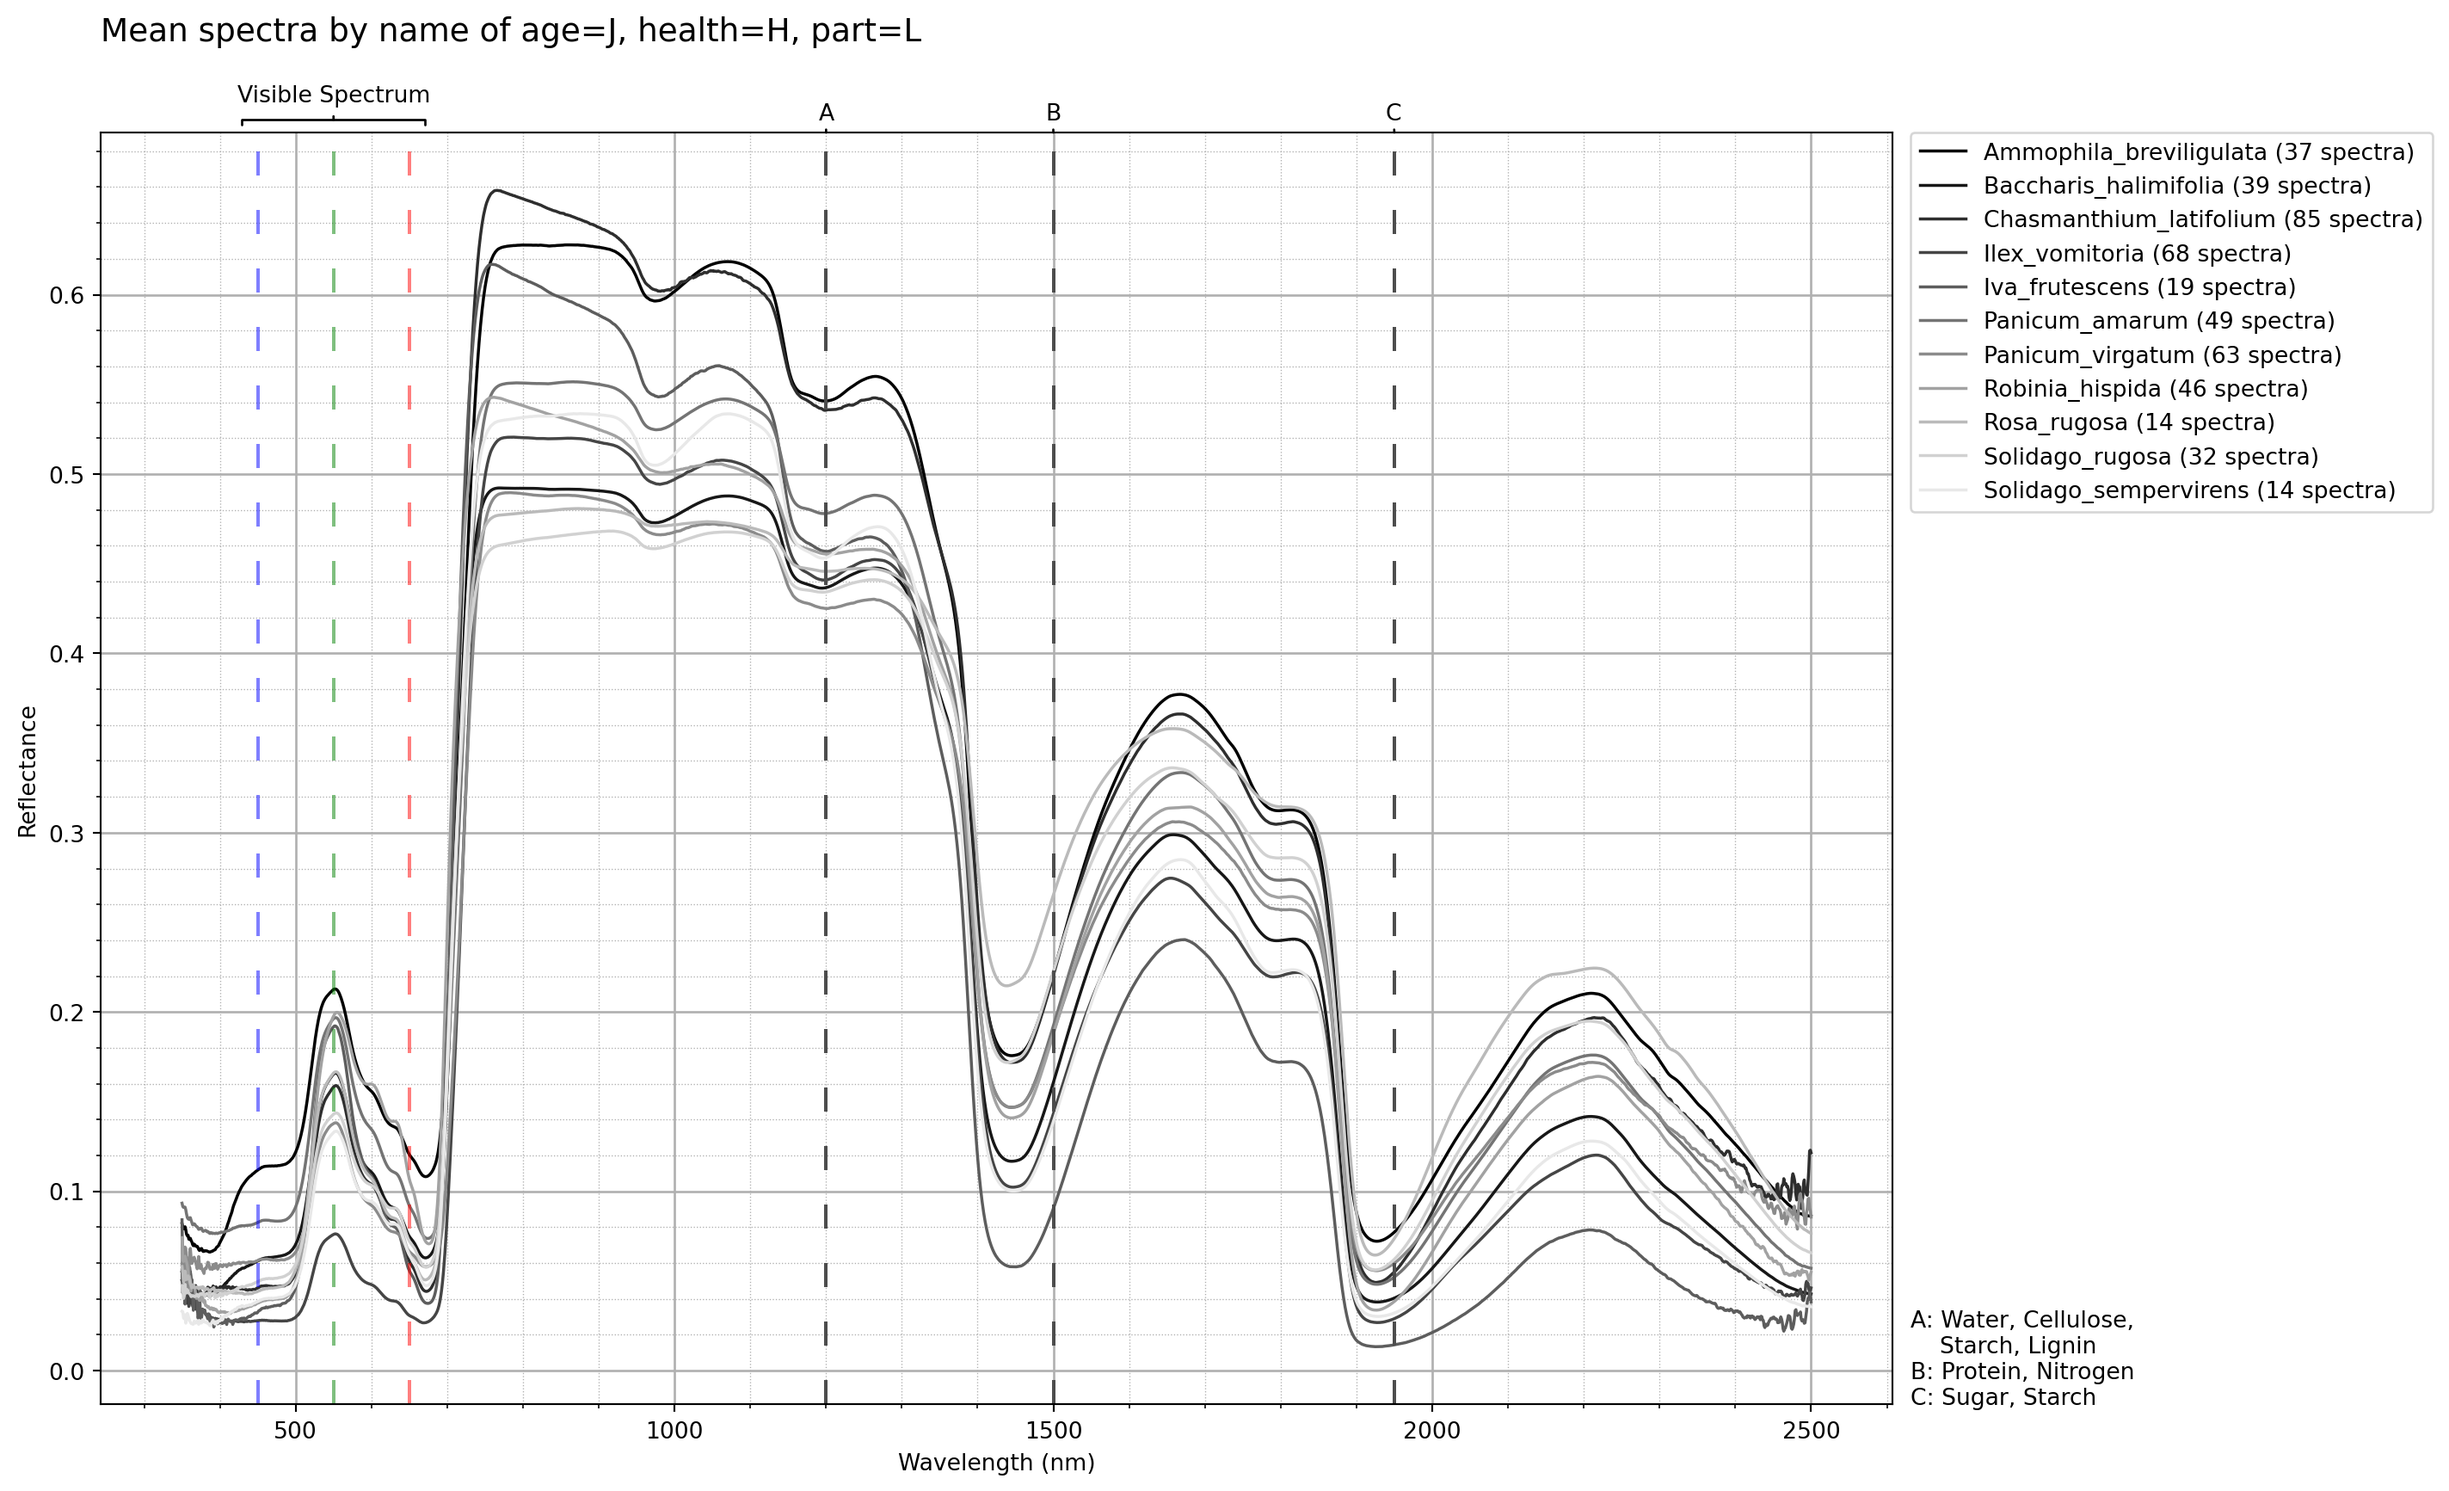
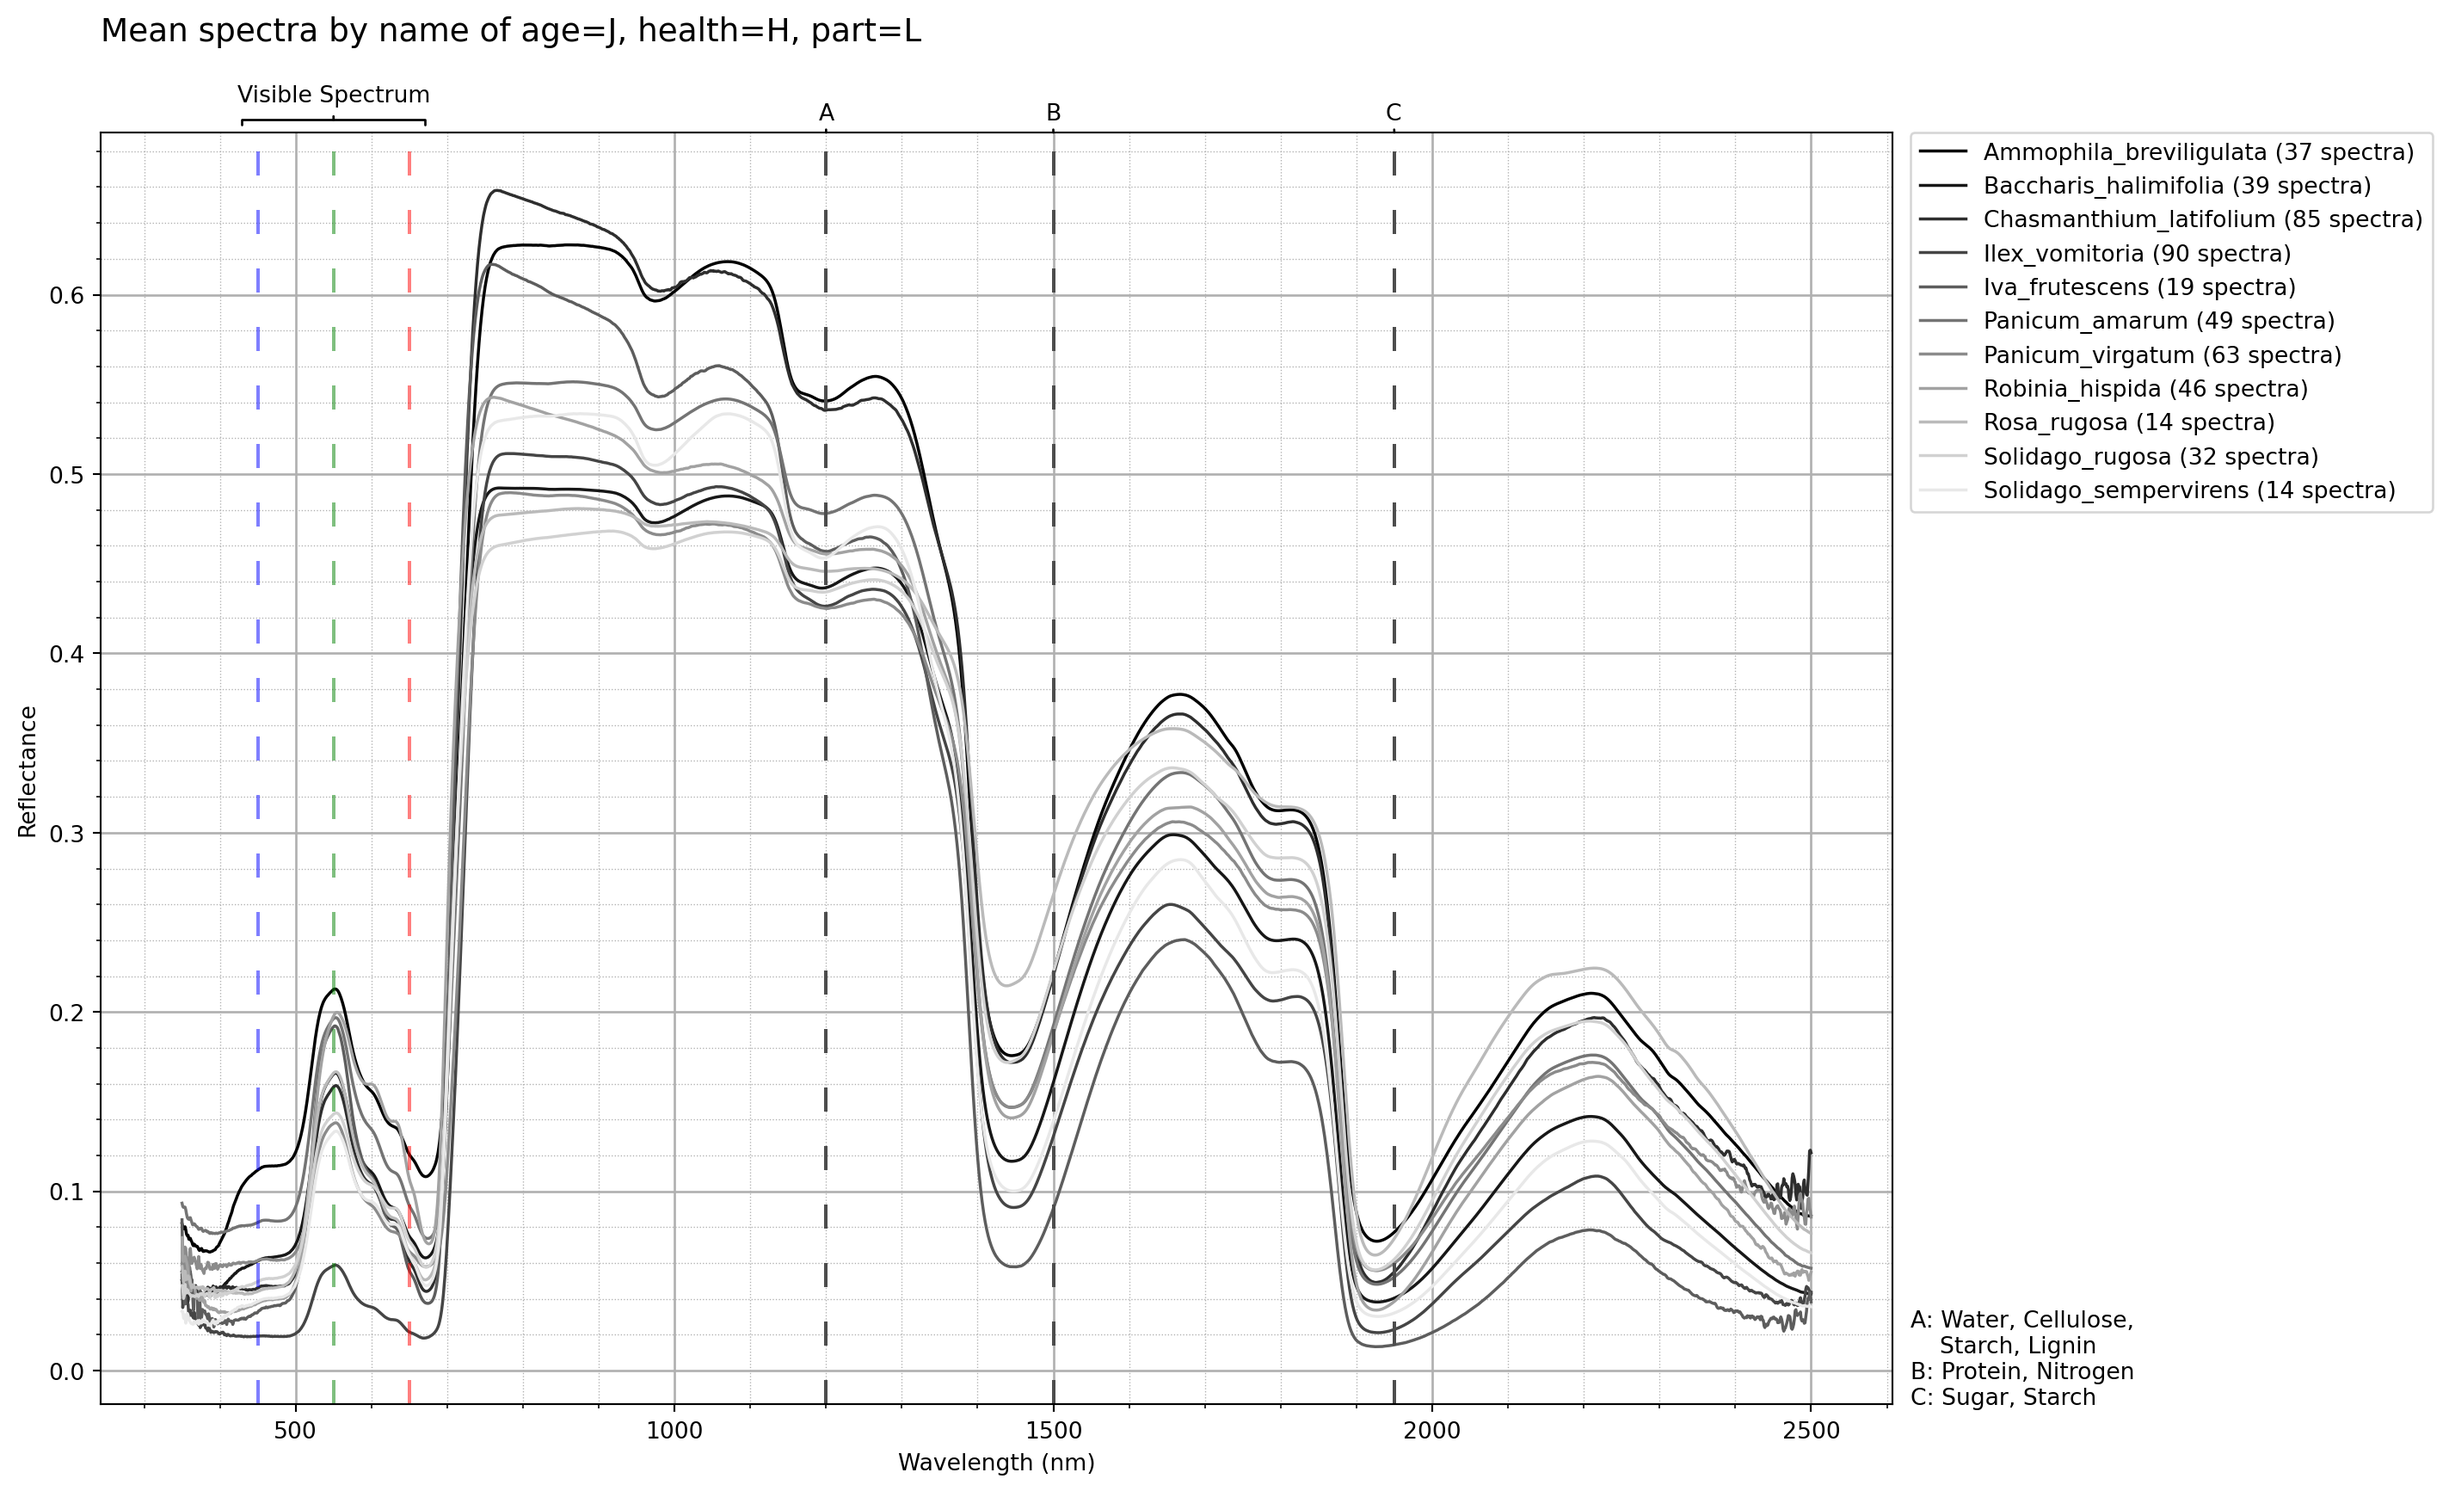
Built site for gh-pages

diff --git a/reports/Report1.html b/reports/Report1.html
@@ -152,7 +152,7 @@ ul.task-list li input[type="checkbox"] {
 
 <section id="spectral-library" class="level2 page-columns page-full">
 <h2 class="anchored" data-anchor-id="spectral-library">Spectral Library</h2>
-<p>Number of Spectra: 4408</p>
+<p>Number of Spectra: 4626</p>
 <div id="cell-table1" class="cell page-columns page-full" data-execution_count="9">
 <div id="table1" class="cell-output cell-output-display column-page-inset-right" data-execution_count="9">
 <div>
@@ -251,21 +251,21 @@ ul.task-list li input[type="checkbox"] {
 </tr>
 <tr class="odd">
 <td data-quarto-table-cell-role="th">Chamaecrista_fasciculata</td>
-<td>147</td>
+<td>193</td>
 <td>64</td>
-<td>45</td>
-<td>0</td>
+<td>56</td>
+<td>13</td>
 <td>9</td>
 <td>0</td>
-<td>24</td>
+<td>46</td>
 <td>0</td>
 <td>0</td>
 <td>50</td>
-<td>44</td>
+<td>90</td>
 <td>19</td>
 <td>22</td>
 <td>24</td>
-<td>101</td>
+<td>147</td>
 <td>0</td>
 <td>0</td>
 <td>0</td>
@@ -274,7 +274,7 @@ ul.task-list li input[type="checkbox"] {
 <td>0</td>
 <td>0</td>
 <td>4</td>
-<td>54</td>
+<td>100</td>
 <td>7</td>
 <td>0</td>
 </tr>
@@ -309,21 +309,21 @@ ul.task-list li input[type="checkbox"] {
 </tr>
 <tr class="odd">
 <td data-quarto-table-cell-role="th">Ilex_vomitoria</td>
-<td>363</td>
+<td>451</td>
 <td>96</td>
-<td>102</td>
-<td>39</td>
+<td>124</td>
+<td>60</td>
 <td>26</td>
-<td>85</td>
-<td>15</td>
+<td>124</td>
+<td>21</td>
 <td>0</td>
 <td>0</td>
 <td>6</td>
 <td>0</td>
-<td>305</td>
+<td>393</td>
 <td>7</td>
 <td>7</td>
-<td>314</td>
+<td>402</td>
 <td>0</td>
 <td>0</td>
 <td>0</td>
@@ -332,7 +332,7 @@ ul.task-list li input[type="checkbox"] {
 <td>0</td>
 <td>0</td>
 <td>3</td>
-<td>66</td>
+<td>110</td>
 <td>0</td>
 <td>0</td>
 </tr>
@@ -367,21 +367,21 @@ ul.task-list li input[type="checkbox"] {
 </tr>
 <tr class="odd">
 <td data-quarto-table-cell-role="th">Morella_pennsylvanica</td>
-<td>280</td>
+<td>328</td>
 <td>21</td>
-<td>213</td>
+<td>233</td>
 <td>0</td>
-<td>0</td>
-<td>32</td>
+<td>13</td>
+<td>47</td>
 <td>0</td>
 <td>14</td>
 <td>0</td>
 <td>0</td>
 <td>5</td>
 <td>25</td>
-<td>250</td>
+<td>298</td>
 <td>74</td>
-<td>101</td>
+<td>149</td>
 <td>0</td>
 <td>0</td>
 <td>0</td>
@@ -389,7 +389,7 @@ ul.task-list li input[type="checkbox"] {
 <td>62</td>
 <td>43</td>
 <td>0</td>
-<td>0</td>
+<td>48</td>
 <td>7</td>
 <td>22</td>
 <td>9</td>
@@ -483,8 +483,8 @@ ul.task-list li input[type="checkbox"] {
 </tr>
 <tr class="odd">
 <td data-quarto-table-cell-role="th">Rosa_rugosa</td>
-<td>197</td>
-<td>48</td>
+<td>220</td>
+<td>71</td>
 <td>125</td>
 <td>12</td>
 <td>0</td>
@@ -492,12 +492,12 @@ ul.task-list li input[type="checkbox"] {
 <td>0</td>
 <td>0</td>
 <td>0</td>
-<td>36</td>
+<td>59</td>
 <td>111</td>
 <td>47</td>
 <td>3</td>
 <td>3</td>
-<td>145</td>
+<td>168</td>
 <td>8</td>
 <td>0</td>
 <td>0</td>
@@ -541,9 +541,9 @@ ul.task-list li input[type="checkbox"] {
 </tr>
 <tr class="odd">
 <td data-quarto-table-cell-role="th">Solidago_sempervirens</td>
-<td>328</td>
+<td>341</td>
 <td>31</td>
-<td>244</td>
+<td>257</td>
 <td>9</td>
 <td>0</td>
 <td>0</td>
@@ -551,11 +551,11 @@ ul.task-list li input[type="checkbox"] {
 <td>0</td>
 <td>0</td>
 <td>7</td>
-<td>94</td>
+<td>107</td>
 <td>95</td>
 <td>95</td>
 <td>27</td>
-<td>185</td>
+<td>198</td>
 <td>18</td>
 <td>0</td>
 <td>15</td>
